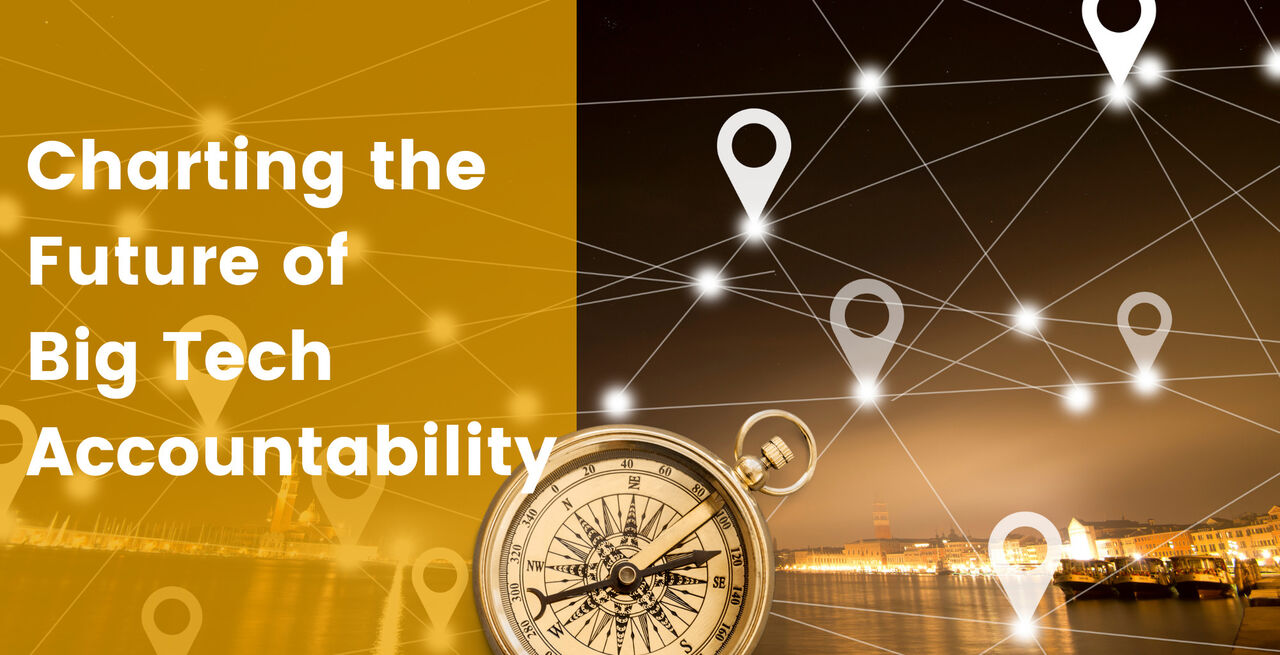
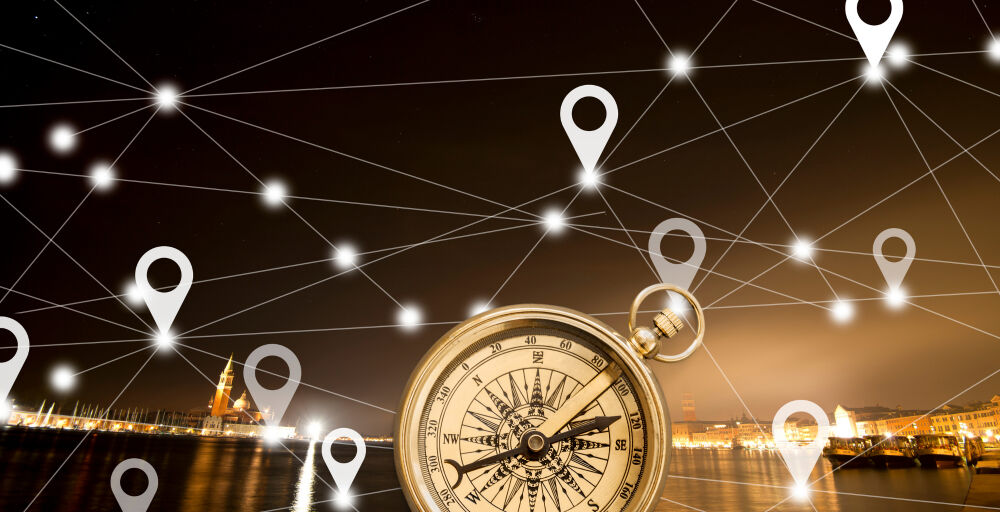
refactor: update data, imagery and copy

diff --git a/src/components/lens-score-chart.tsx b/src/components/lens-score-chart.tsx
@@ -15,20 +15,12 @@ interface LensScoreProps {
 const lensDescription = (lens: IndicatorLens) => {
   switch (lens) {
     case "algorithmic-transparency": {
-      return `This Lens groups indicators that ask questions about whether
-              companies make a commitment to human rights in the development and
-              deployment of their algorithmic systems, conduct human rights
-              impact assessments on those systems, make related policies
-              accessible, disclose how they use algorithms to curate, recommend,
-              and rank content, and how they use algorithms to collect, process,
-              and make inferences about user data.`;
+      return `This lens groups indicators that ask questions about whether companies conduct human rights impact assessments on algorithmic systems and whether they disclose how they use and develop algorithms. The scores are an average of the following indicators: G1, element 3; G4(d); F1(d); F2(d); F3(a), element 4; F3(c), element 4; F12; F13; P1b; P2(b); and P7, elements 7 and 8.`;
     }
     case "targeted-advertising": {
-      return `This Lens
-          groups indicators that ask whether companies conduct human rights
-          impact assessments on their targeted advertising systems, as well as
-          whether they clearly disclose rules around ad targeting and how those
-          rules are enforced.`;
+      return `This lens groups indicators that ask whether companies conduct human rights impact assessments on their targeted advertising systems, and whether they clearly disclose rules around ad targeting and how those rules are enforced.
+
+The scores are an average of the following indicators: G4(c); F1(b); F2(b); F1(c); F2(c); F3(b); F3(c); F4(c); P3(a); P3(b); P4; P5; P7; P8, elements 5 and 6; and P9.`;
     }
     default:
       return "";
@@ -42,48 +34,44 @@ const LensScore = ({lenses, className, companyList}: LensScoreProps) => {
     <div className="flex flex-col space-y-5 md:space-y-0 md:space-x-8 md:flex-row font-sans">
       <div className="w-full md:w-1/2">
         <ul className={c("ml-0 space-y-12", className)}>
-          {lenses
-            .slice(0, divider)
-            .map(({lens, lensPretty, scores, average}) => {
-              return (
-                <li key={lens} className="flex flex-col mt-2">
-                  <PillHeader className="flex items-center">
-                    <>
-                      <LensCircle lens={lens} className="w-4 h-4 mr-3 grow-0" />
-                      <span className="grow">{lensPretty}</span>
-                      <span className="self-end text-prissian">{average}%</span>
-                    </>
-                  </PillHeader>
-
-                  <p className="font-sans text-xs mt-3 h-32">
-                    {lensDescription(lens)}
-                  </p>
-
-                  <RankChart
-                    ranking={
-                      companyList.length > 0
-                        ? scores.filter((score) => {
-                            return companyList.includes(score.id);
-                          })
-                        : scores
-                    }
-                  />
-                </li>
-              );
-            })}
-        </ul>
-      </div>
-
-      <div className="w-full md:w-1/2">
-        <ul className={c("ml-0 space-y-12", className)}>
-          {lenses.slice(divider).map(({lens, lensPretty, scores, average}) => {
+          {lenses.slice(0, divider).map(({lens, lensPretty, scores}) => {
             return (
               <li key={lens} className="flex flex-col mt-2">
                 <PillHeader className="flex items-center">
                   <>
                     <LensCircle lens={lens} className="w-4 h-4 mr-3 grow-0" />
                     <span className="grow">{lensPretty}</span>
-                    <span className="self-end text-prissian">{average}%</span>
+                  </>
+                </PillHeader>
+
+                <p className="font-sans text-xs mt-3 h-32 whitespace-pre-line">
+                  {lensDescription(lens)}
+                </p>
+
+                <RankChart
+                  ranking={
+                    companyList.length > 0
+                      ? scores.filter((score) => {
+                          return companyList.includes(score.id);
+                        })
+                      : scores
+                  }
+                />
+              </li>
+            );
+          })}
+        </ul>
+      </div>
+
+      <div className="w-full md:w-1/2">
+        <ul className={c("ml-0 space-y-12", className)}>
+          {lenses.slice(divider).map(({lens, lensPretty, scores}) => {
+            return (
+              <li key={lens} className="flex flex-col mt-2">
+                <PillHeader className="flex">
+                  <>
+                    <LensCircle lens={lens} className="w-4 h-4 mr-3 grow-0" />
+                    <span className="grow">{lensPretty}</span>
                   </>
                 </PillHeader>
 

diff --git a/src/components/image.tsx b/src/components/image.tsx
@@ -5,10 +5,11 @@ import React from "react";
 interface ImageProps {
   src: string;
   alt?: string;
+  alignment?: "left-top" | "center";
   className?: string;
 }
 
-const Image = ({src, alt, className}: ImageProps) => {
+const Image = ({src, alt, alignment = "left-top", className}: ImageProps) => {
   const image = require(`../images/${src}?resize&sizes[]=400&sizes[]=750&sizes[]=1500`);
 
   return (
@@ -19,7 +20,10 @@ const Image = ({src, alt, className}: ImageProps) => {
           <source srcSet={image.srcSet} type="image/jpg" />
 
           <img
-            className="mx-auto object-cover object-left-top"
+            className={c("mx-auto object-cover", {
+              "object-left-top": alignment === "left-top",
+              "object-center": alignment === "center",
+            })}
             src={image.src}
             srcSet={image.srcSet}
             alt={alt}

diff --git a/src/components/score-charts.jsx b/src/components/score-charts.jsx
@@ -56,7 +56,7 @@ const ScoreCharts = ({
 
   return (
     <div className="flex flex-col px-2 lg:px-0">
-      <NarrativeTitle title="2022 Companies Score" />
+      <NarrativeTitle title="2022 Company Scores" />
 
       <p className="mb-0">
         Select and compare total company and service scores, as well as scores

diff --git a/src/components/featured-essay-tile.tsx b/src/components/featured-essay-tile.tsx
@@ -29,6 +29,7 @@ const FeaturedEssayTile = ({
         <Image
           src={src}
           alt={title}
+          alignment="center"
           className="aspect-video overflow-hidden md:h-72 pointer-events-none group-hover:opacity-75"
         />
 
